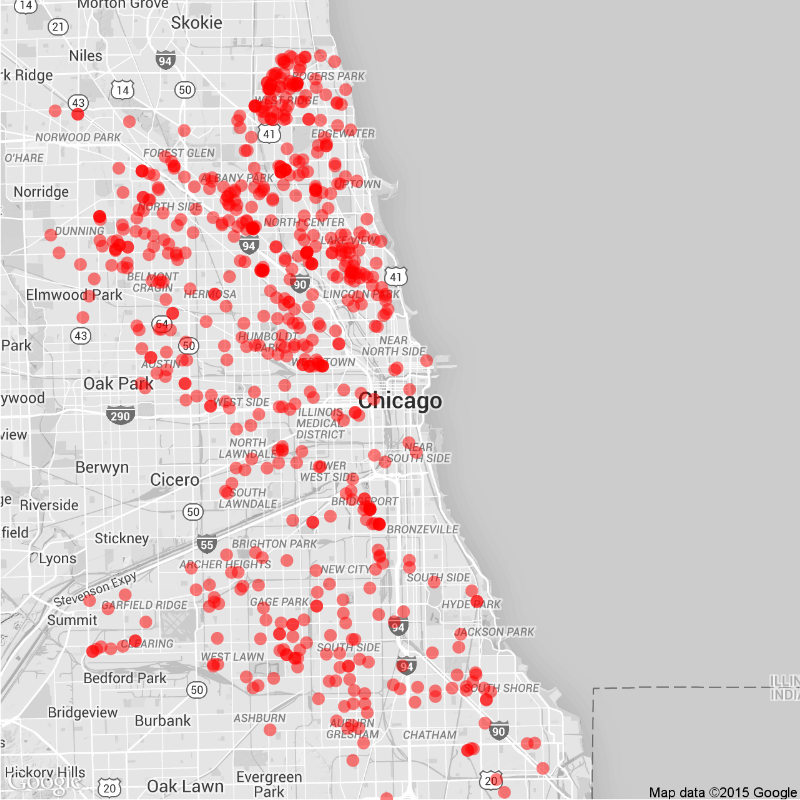
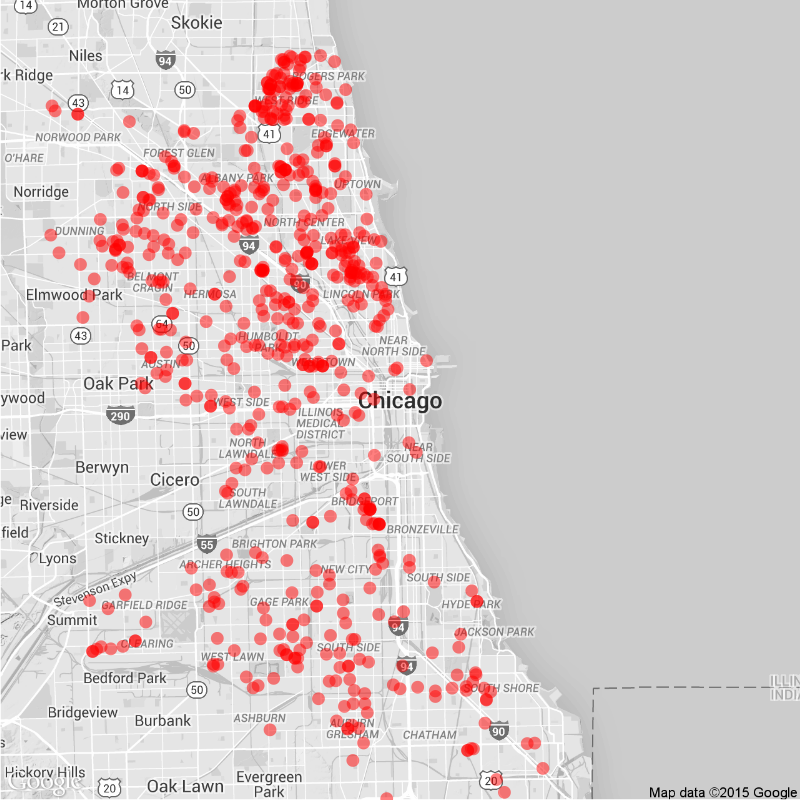
Daily Maps

diff --git a/daily.md b/daily.md
@@ -15,22 +15,22 @@ tags: Chicago NYC weekly daily rats
 
 ### Daily
 
-Yesterday (May 02), there were 36 calls to Chicago's 311 line about rats.
+Yesterday (May 03), there were 38 calls to Chicago's 311 line about rats.
 ![Chicago rat calls to 311 weekly map]({{ site.cityimages }}/daily/Chicago_Rat_Map_Daily.png)
 
 ### Weekly
-Between April 26 and May 02, there were 641 calls to Chicago's 311 line about rats. The average number of weekly calls for this time of year is 649.
+Between April 27 and May 03, there were 650 calls to Chicago's 311 line about rats. The average number of weekly calls for this time of year is 649.
 ![Chicago rat calls to 311 weekly map]({{ site.cityimages }}/daily/Chicago_Rat_Map_Weekly.png)
 ***
 # New York City <a id="nyc"><a>
 
 ### Daily
 
-Yesterday (May 02), there were 0 calls to New York City's 311 line about rats.
+Yesterday (May 03), there were 0 calls to New York City's 311 line about rats.
 ![NYC rat calls to 311 weekly map]({{ site.cityimages }}/daily/NYC_Rat_Map_Daily.png)
 
 ### Weekly
-Between April 26 and May 02, there were 5 calls to New York City's 311 line about rats. The average number of weekly calls for this time of year is 236.
+Between April 27 and May 03, there were 0 calls to New York City's 311 line about rats. The average number of weekly calls for this time of year is 236.
 ![NYC rat calls to 311 weekly map]({{ site.cityimages }}/daily/NYC_Rat_Map_Weekly.png)
 
 Each red dot represents one call about a rat seen in that location. The dots are transparent, so multiple calls from one location will be seen as a solid dot. The usual caveats apply: more calls do not necessarily mean that there are more rats in that location than other parts of the city. A cluster of dots could indicate that one resident is unusually vocal about rodents in his or her neighborhood. Also, more densely populated neighborhoods tend to make more calls to 311.
